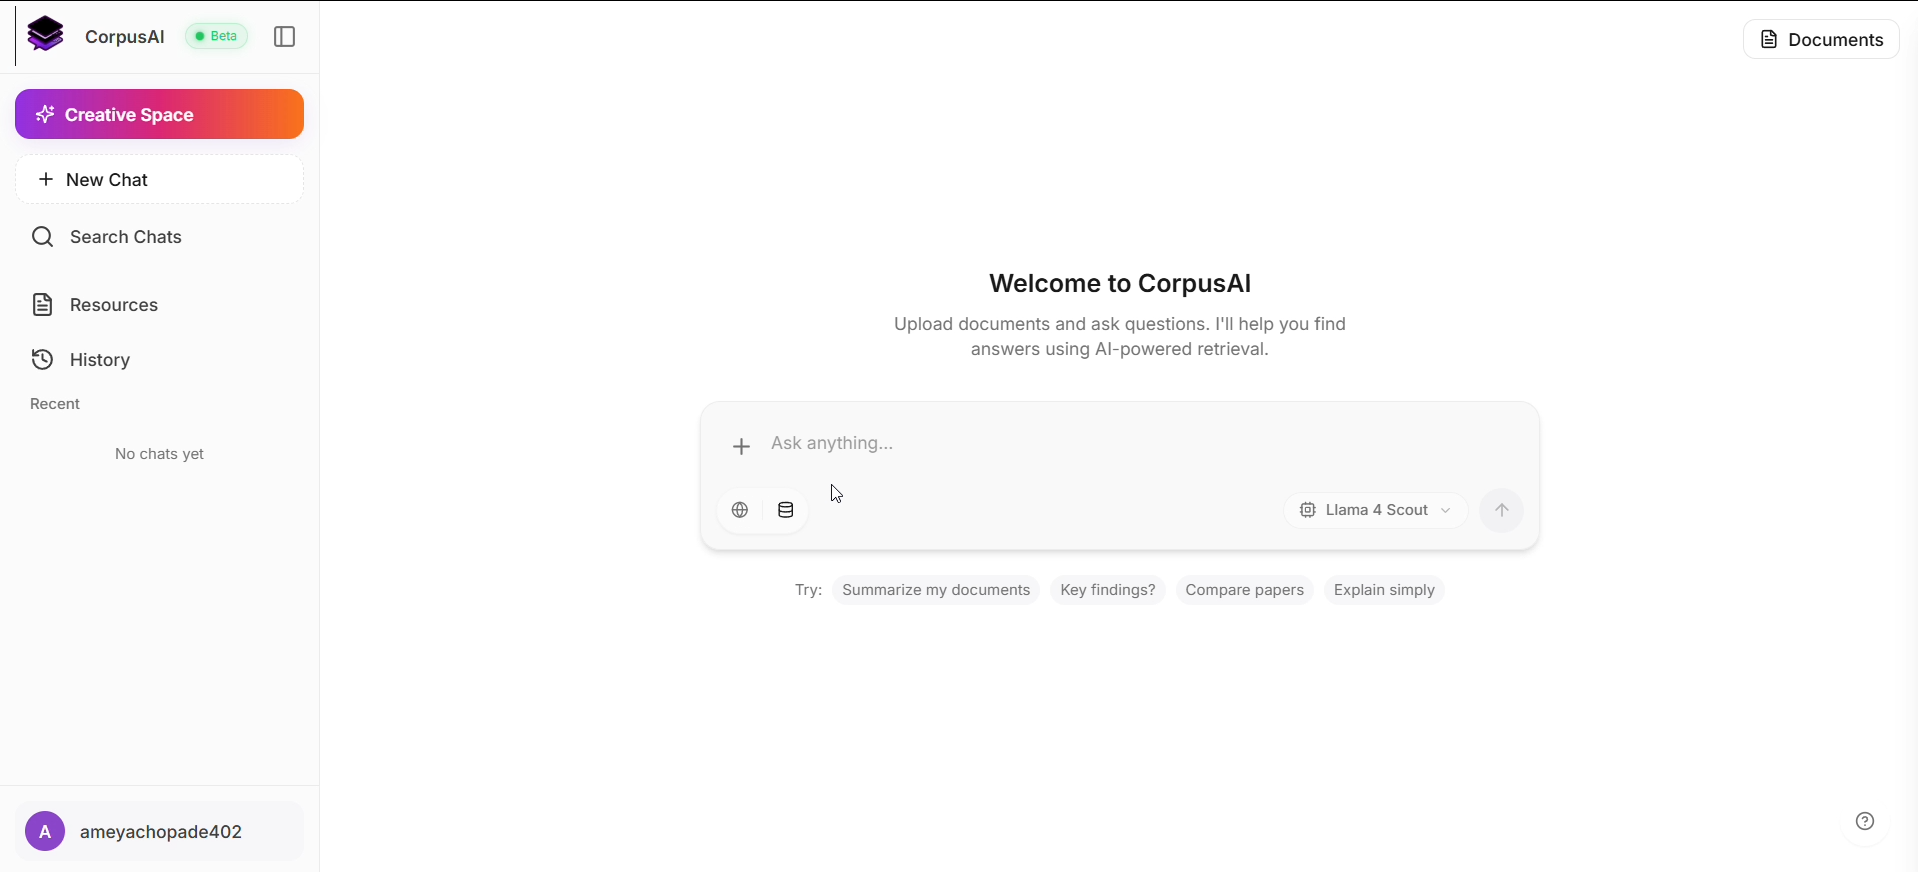
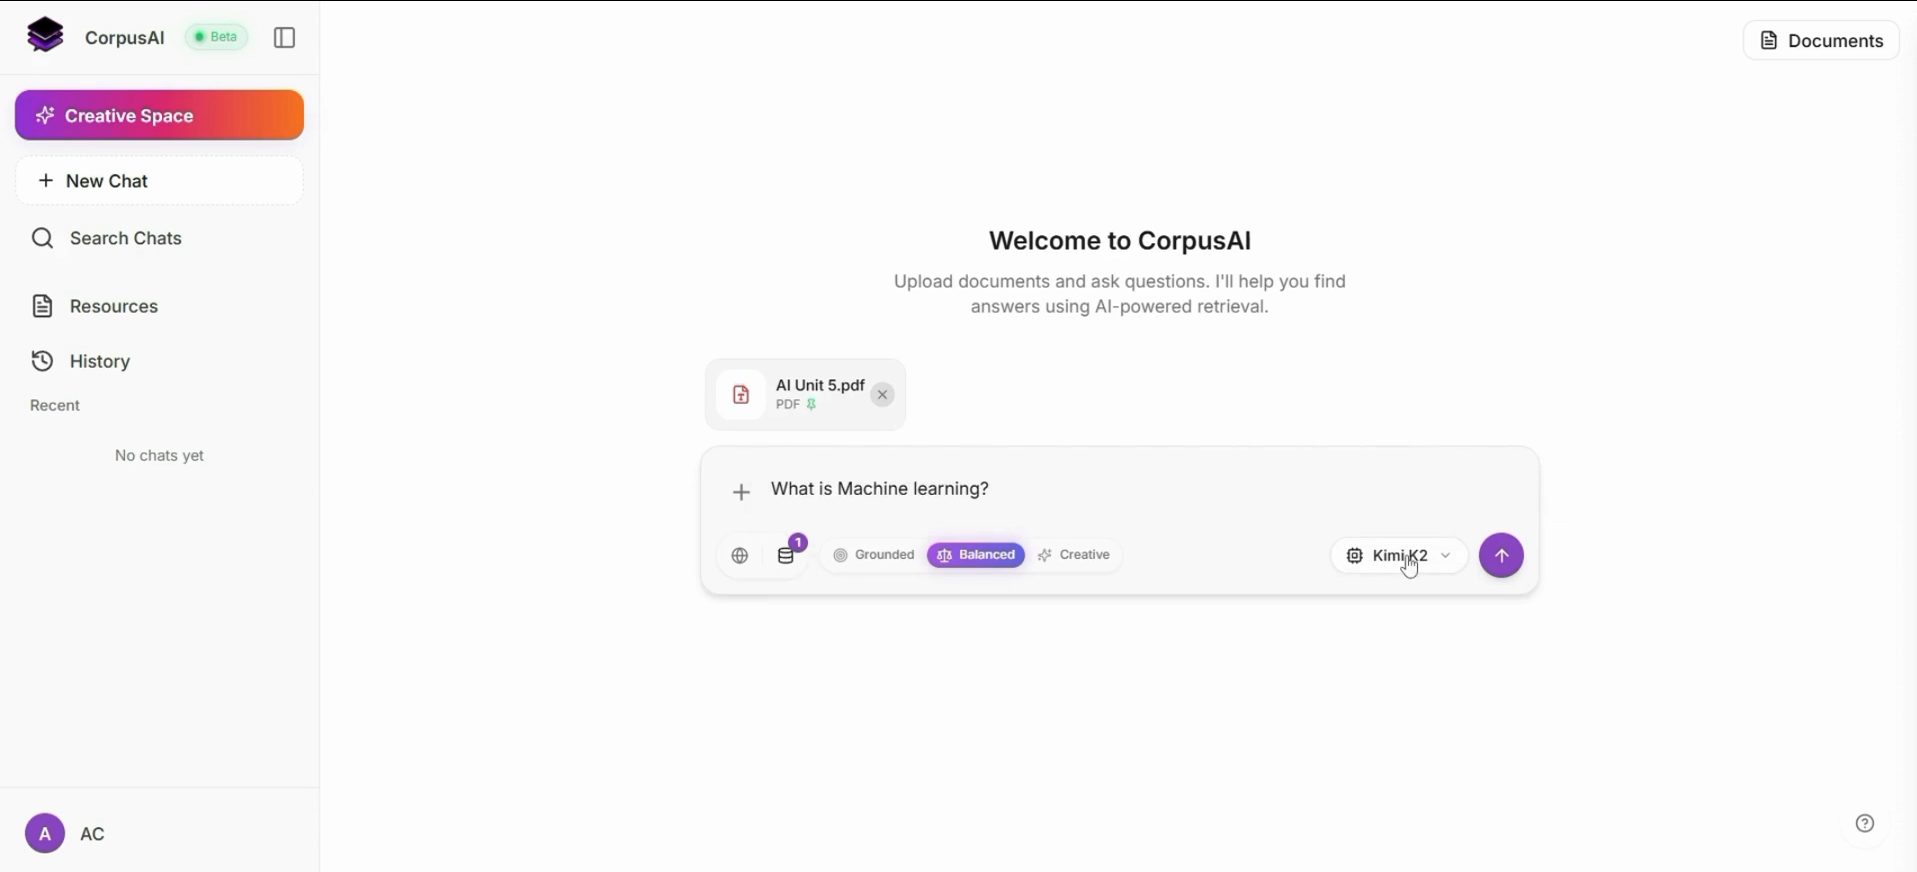
Thumbnails update

diff --git a/src/pages/Projects.tsx b/src/pages/Projects.tsx
@@ -15,8 +15,12 @@ const projects = [
         description: 'AI-powered Corpus Intelligence & Retrieval-Augmented Generation (RAG) platform. CorpusAI enables users to ingest documents, manage reusable context, and perform semantic retrieval to generate accurate, context-aware responses across LLM interactions.',
         screenshots: [
             '/CorpusAI_1.png',
-            '/DataNesTX_Logo_Dark_Frontend.png',
-            '/DataNesTX_Logo_Light_Frontend.png'
+            '/CorpusAI_2.png',
+            '/CorpusAI_3.png',
+            '/CorpusAI_4.png',
+            '/CorpusAI_5.png',
+            '/CorpusAI_6.png',
+            '/CorpusAI_7.png'
         ],
         tags: ['Python', 'FastAPI', 'PostgreSQL', 'VectorDB', 'LLM', 'RAG', 'Redis', 'React', 'Docker'],
         demoLink: 'https://drive.google.com/file/d/1sinJJUI4ERdRFNriyIDwmQwCkWR7wG-K/view?usp=sharing',
@@ -31,16 +35,20 @@ const projects = [
         title: 'DataForgeAI',
         description: 'AI-powered Dataset Engineering & Generation platform. DataForgeAI enables users to create structured datasets through conversational AI workflows with model selection and internet-assisted generation, as well as custom schema-based builders for manual and AI-assisted dataset creation and export.',
         screenshots: [
-            '/D_1.png',
-            '/D_2.png',
-            '/DataNesTX_Logo_Dark_Frontend.png',
-            '/DataNesTX_Logo_Light_Frontend.png'
+            '/DataForgeAI_1.png',
+            '/DataForgeAI_2.png',
+            '/DataForgeAI_3.png',
+            '/DataForgeAI_4.png',
+            '/DataForgeAI_5.png',
+            '/DataForgeAI_6.png',
+            '/DataForgeAI_7.png',
+            '/DataForgeAI_8.png'
         ],
         tags: ['React', 'FastAPI', 'PostgreSQL', 'Redis', 'LLM', 'Docker'],
         demoLink: 'https://drive.google.com/file/d/1OtPPlJhO3wfiNb6Vo_7IEtpdBAg533A5/view?usp=sharing',
         codeLink: '#',
         category: 'AI/ML',
-        status: 'In Progress',
+        status: 'Completed',
         featured: true,
         stats: { stars: 58, contributors: 1, lastUpdate: '2026-01' },
         highlights: ['Conversational Dataset Generation', 'Model Selection', 'Internet-assisted Generation', 'Custom Dataset Builder']

diff --git a/src/components/ProjectsSection.tsx b/src/components/ProjectsSection.tsx
@@ -58,7 +58,7 @@ const ProjectsSection = () => {
       demoLink: 'https://corpusai.datanestx.tech',
       codeLink: '#',
       category: 'AI/ML',
-      status: 'In Progress',
+      status: 'Completed',
       featured: true,
       stats: { stars: 65, contributors: 1, lastUpdate: '2026-01' },
       highlights: ['Context Caching', 'Token Efficient', 'Multi-Agent Systems', 'RAG']
@@ -66,12 +66,12 @@ const ProjectsSection = () => {
     {
       title: 'DataForgeAI',
       description: 'AI-First Data Processing & Transformation Engine. An AI-centric data processing engine that transforms raw, unstructured, or semi-structured data into AI-ready formats. Automates data cleaning, normalization, enrichment, and embedding generation, enabling faster deployment of machine learning and LLM-powered applications.',
-      image: '/DataNesTX_Logo_Dark_Frontend.png',
+      image: '/DataForgeAI_1.png',
       tags: ['Python', 'Pytorch', 'FastAPI', 'MongoDB', 'VectorDB', 'AI'],
       demoLink: 'https://datanestx.tech',
       codeLink: '#',
       category: 'AI/ML',
-      status: 'In Progress',
+      status: 'Completed',
       featured: true,
       stats: { stars: 58, contributors: 1, lastUpdate: '2026-01' },
       highlights: ['Automated Processing', 'Scalable', 'ML Integration']

diff --git a/src/components/ContactSection.tsx b/src/components/ContactSection.tsx
@@ -121,7 +121,7 @@ const ContactSection = () => {
     {
       icon: <Github size={24} />,
       name: "GitHub",
-      url: "https://github.com/AmeyC171",
+      url: "https://github.com",
       color: "hover:text-foreground"
     },
     {

diff --git a/src/components/Footer.tsx b/src/components/Footer.tsx
@@ -19,7 +19,7 @@ const Footer = () => {
   ];
 
   const socialLinks = [
-    { icon: <Github size={18} />, href: 'https://github.com/AmeyC171', label: 'GitHub' },
+    { icon: <Github size={18} />, href: 'https://github.com', label: 'GitHub' },
     { icon: <Linkedin size={18} />, href: 'https://www.linkedin.com/in/ameyac11', label: 'LinkedIn' },
     { icon: <Mail size={18} />, href: 'mailto:[email redacted]', label: 'Email' }
   ];

diff --git a/src/components/HeroSection.tsx b/src/components/HeroSection.tsx
@@ -68,7 +68,7 @@ const HeroSection = () => {
                         transition={{ duration: 0.5, delay: 0.5 }}
                         className="flex gap-6 text-muted-foreground"
                     >
-                        <a href="https://github.com/AmeyC171" target="_blank" rel="noopener noreferrer" className="hover:text-primary transition-colors">
+                        <a href="https://github.com" target="_blank" rel="noopener noreferrer" className="hover:text-primary transition-colors">
                             <Github className="w-6 h-6" />
                         </a>
                         <a href="https://www.linkedin.com/in/ameyac11" target="_blank" rel="noopener noreferrer" className="hover:text-primary transition-colors">